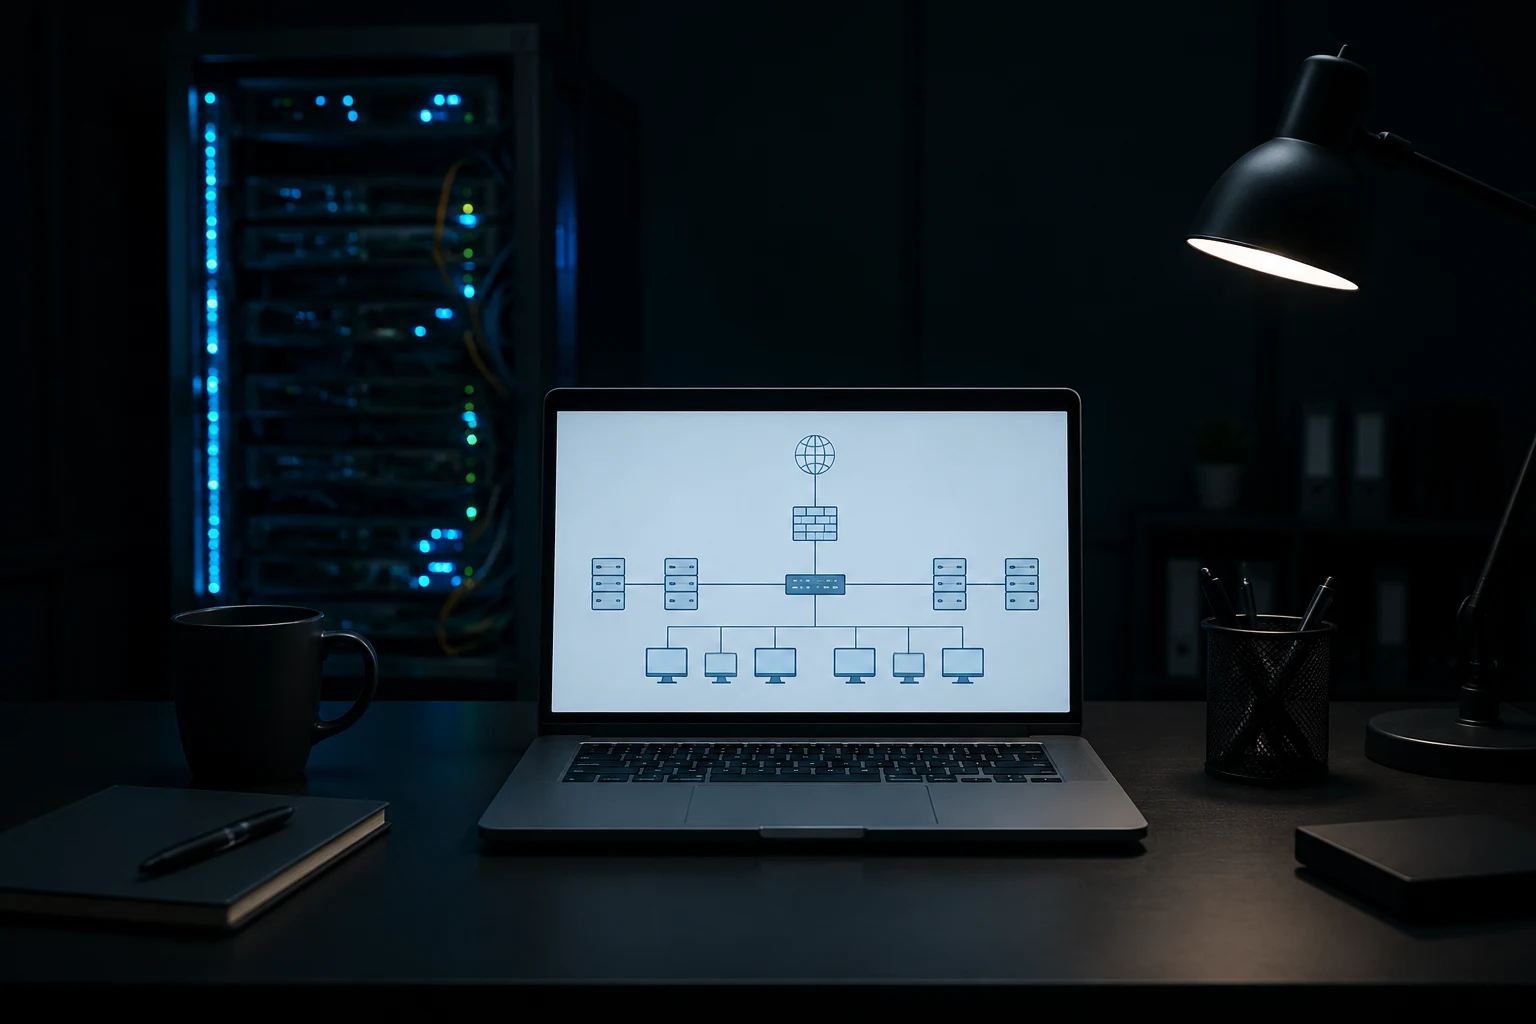
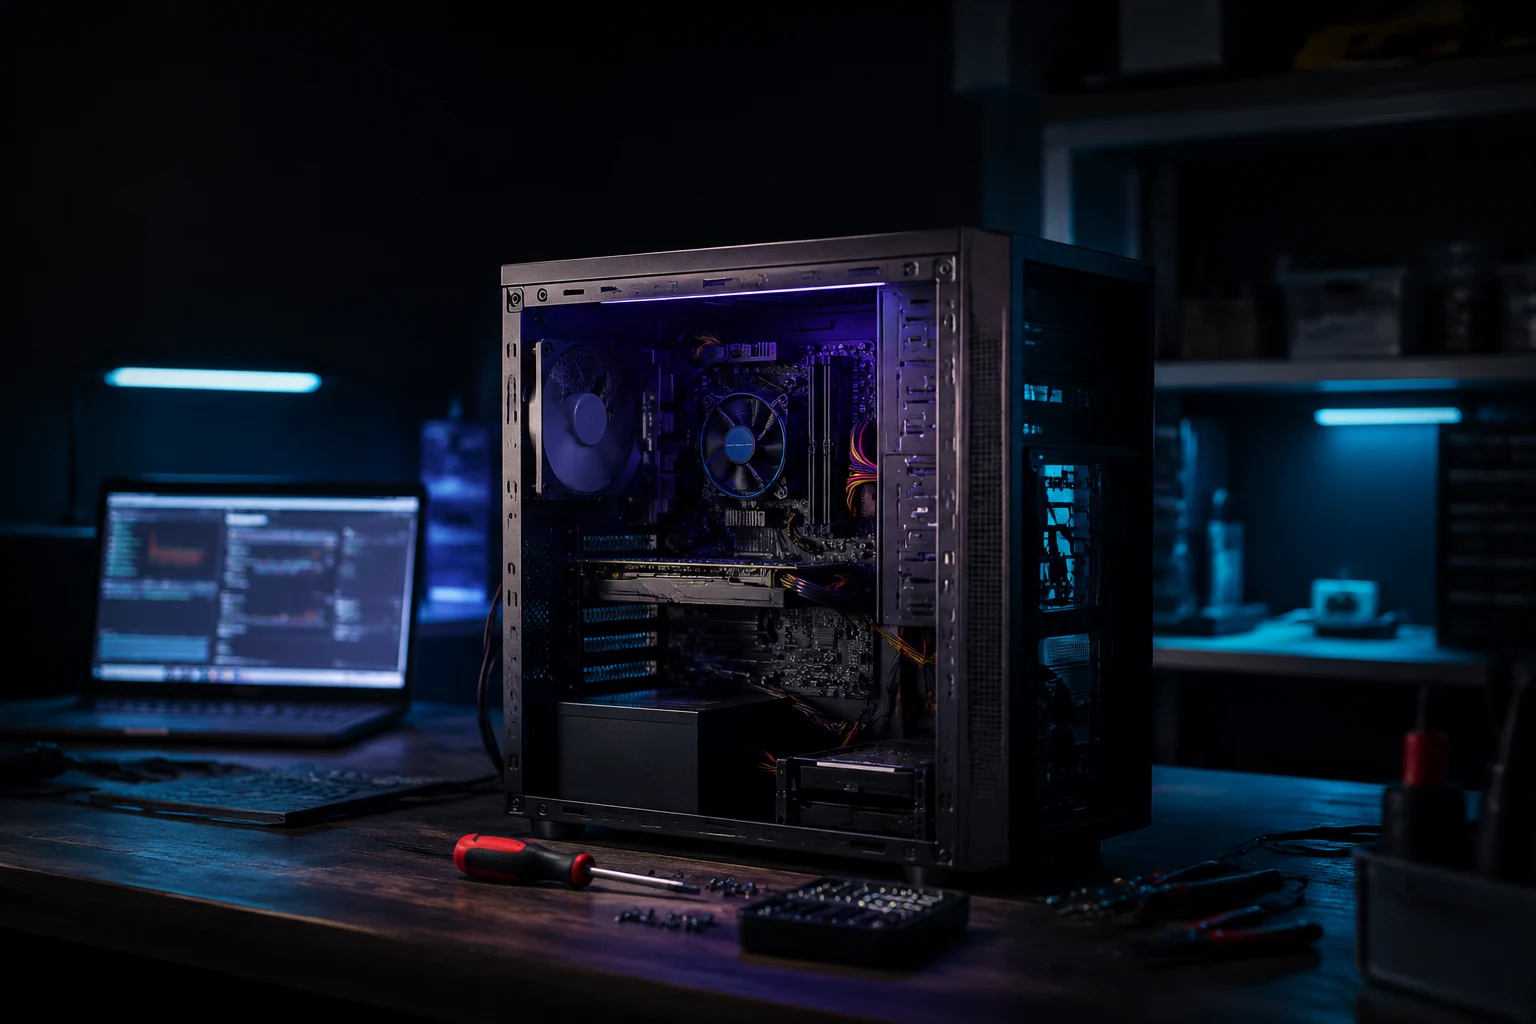
Заменено фото "Компьютерная помощь" на более релевантное — мастерская по ремонту
Прошлая версия (ноутбук с сетевой схемой) была больше про "IT/сети", а не про
компьютерную помощь/ремонт. Новая версия: открытый системный блок на столе
мастера с инструментами, ноутбук с диагностикой на фоне — точнее отражает суть
услуги. Обновлены alt-тексты (Главная + /computer-help).

diff --git a/src/app/computer-help/page.tsx b/src/app/computer-help/page.tsx
@@ -129,7 +129,7 @@ export default function ComputerHelpPage() {
         title="Компьютерная помощь и защита данных"
         subtitle="Поддержка пользователей, администрирование и информационная безопасность для дома и бизнеса в Москве и Московской области"
         image="/images/computer-help.webp"
-        imageAlt="Ноутбук с сетевой схемой на экране на фоне серверной стойки с индикаторами, голубая подсветка"
+        imageAlt="Мастерская по ремонту компьютеров: открытый системный блок на столе, ноутбук с диагностикой на фоне, голубая и фиолетовая подсветка"
         tag="КОМПЬЮТЕРНАЯ ПОМОЩЬ"
         stats={stats}
         actions={<ButtonLink href="#lead">Получить консультацию</ButtonLink>}

diff --git a/src/app/page.tsx b/src/app/page.tsx
@@ -30,7 +30,7 @@ const services = [
     href: "/computer-help",
     image: "/images/computer-help.webp",
     imageAlt:
-      "Ноутбук с сетевой схемой на экране на фоне серверной стойки с индикаторами, голубая подсветка",
+      "Мастерская по ремонту компьютеров: открытый системный блок на столе, ноутбук с диагностикой на фоне, голубая и фиолетовая подсветка",
   },
   {
     title: "3D-моделирование и печать",
